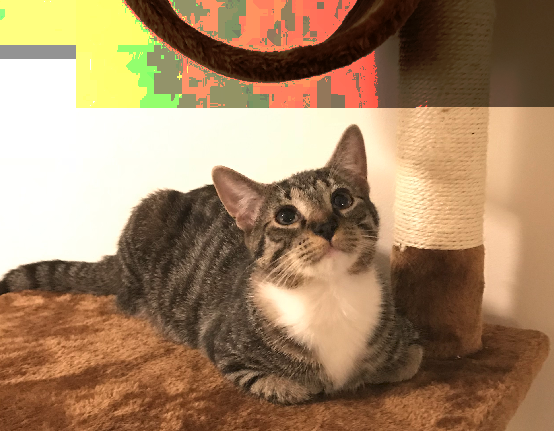
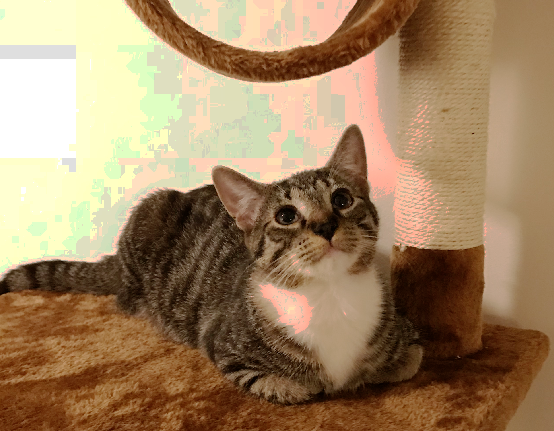
modify q3

diff --git a/Homework3/Q3/PyCUDA.py b/Homework3/Q3/PyCUDA.py
@@ -1,7 +1,7 @@
 import numpy
-import pycuda.driver as cuda 
-import pycuda.autoinit 
-from pycuda.compiler import SourceModule 
+import pycuda.driver as cuda
+import pycuda.autoinit
+from pycuda.compiler import SourceModule
 from PIL import Image
 
 module = SourceModule("""
@@ -17,7 +17,7 @@ module = SourceModule("""
 
       __syncthreads();
 
-      int pixel = pix[idx];
+      unsigned char pixel = pix[idx];
       atomicAdd((float *)&local_hist[pixel], 256.0/total);
    
       __syncthreads(); 
@@ -29,22 +29,22 @@ module = SourceModule("""
     {
       int idx = threadIdx.x + blockDim.x * blockIdx.x;
       if(idx >= total) return;
-      int pixel = pix[idx];
-      pix[idx] = (int)(hist_rgb[pixel]);
+      unsigned char pixel = pix[idx];
+      pix[idx] = (unsigned char)(hist_rgb[pixel]);
     }
     """)
 
 histograms = module.get_function("histograms")
 enhance = module.get_function("enhance")
 
-
 THREADS_PER_BLOCK = 512
 
 def gpu_enhanceImage(pic):
     # convert to array
     pix = numpy.array(pic)
-    width, height = pic.size
-    total = width*height
+    # width, height = pic.size
+    # total = width*height
+    total = pix.size
 
     # ------------------------------------------------
     # accelerate the following part as much as possible using GPU
@@ -78,6 +78,8 @@ def gpu_enhanceImage(pic):
       temp = min(temp, 256 - 1)
       hist_rgb[intensity] = temp
 
+    # print(hist_rgb)
+
     # enhance the picture according to the inversed histgram
     cuda.memcpy_htod(hist_rgb_gpu, hist_rgb)
 
@@ -95,7 +97,7 @@ def gpu_enhanceImage(pic):
 
 def main():
     img_path = './mycat.png'
-    myimg = Image.open(img_path)
+    myimg = Image.open(img_path).convert('RGB')
     width, height = myimg.size
     enhancedPic = gpu_enhanceImage(myimg)
     enhancedPic = enhancedPic.resize((width, height))
